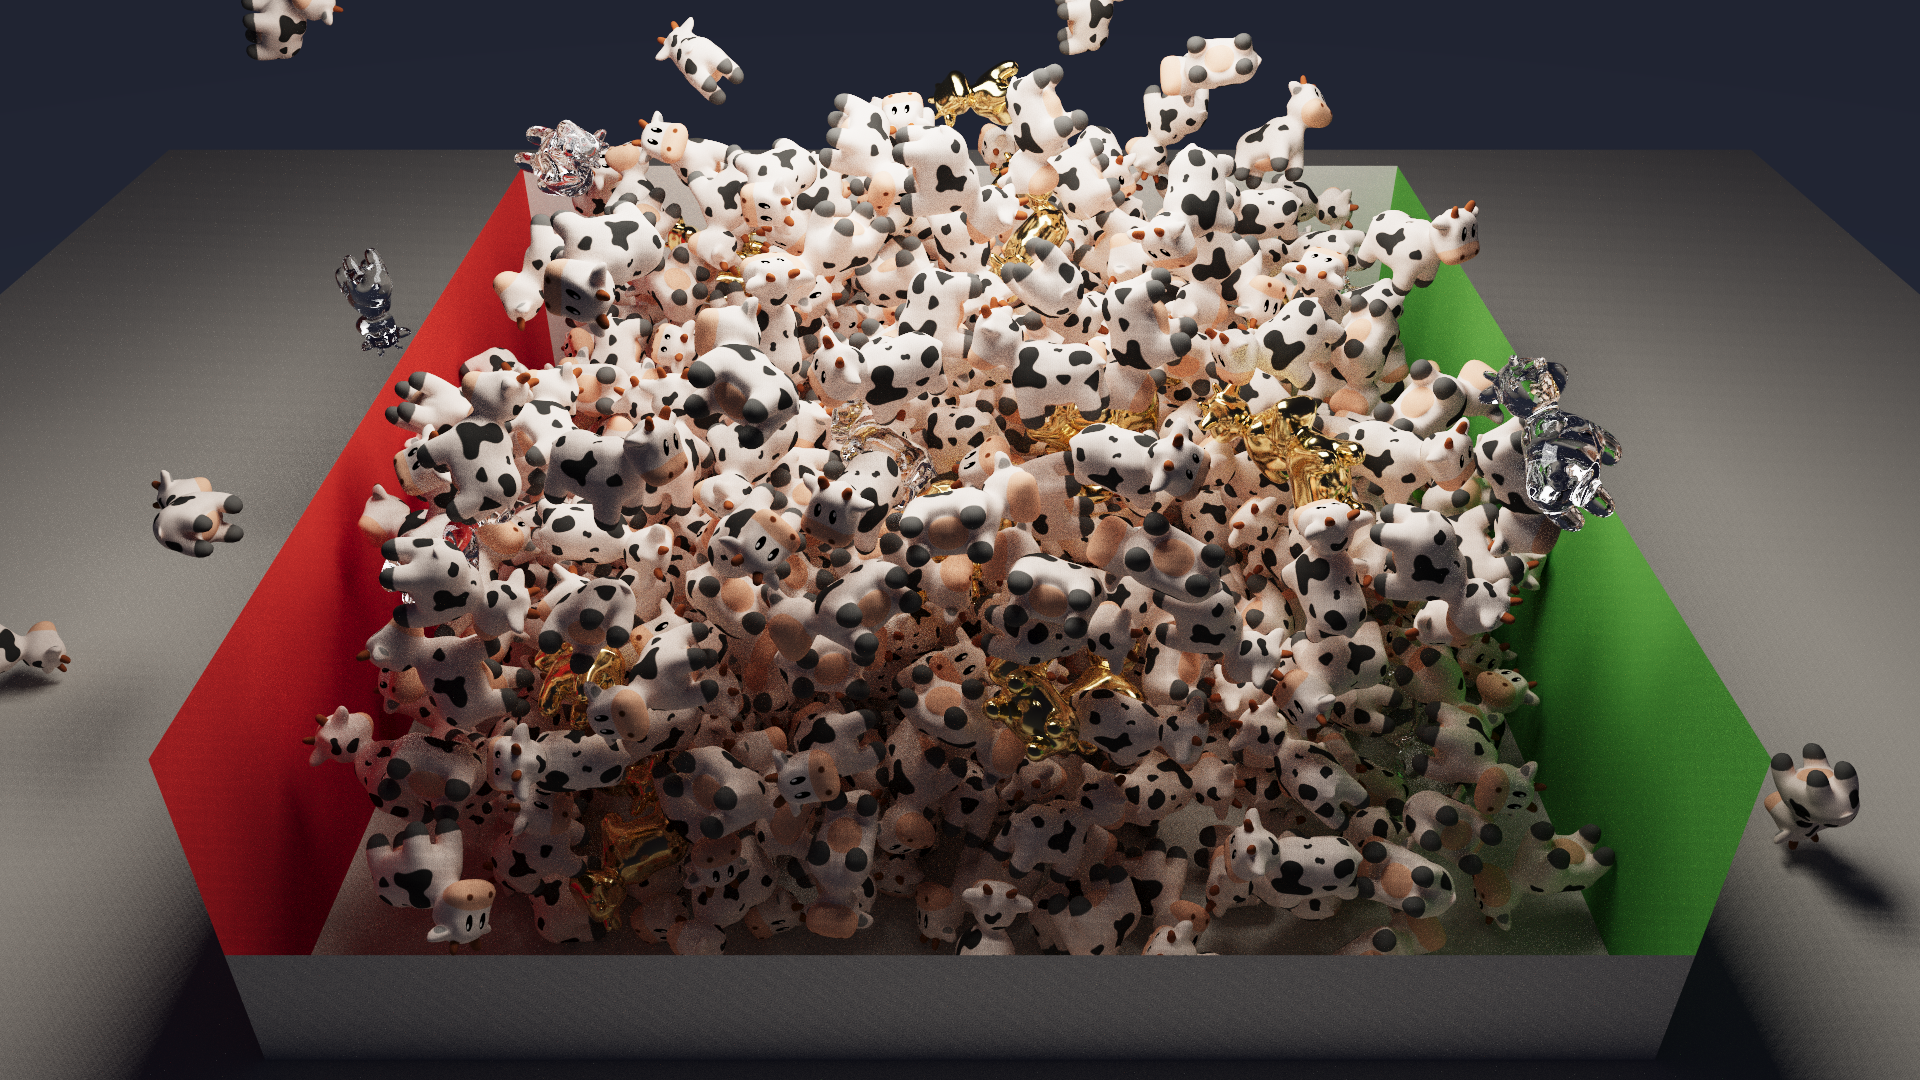
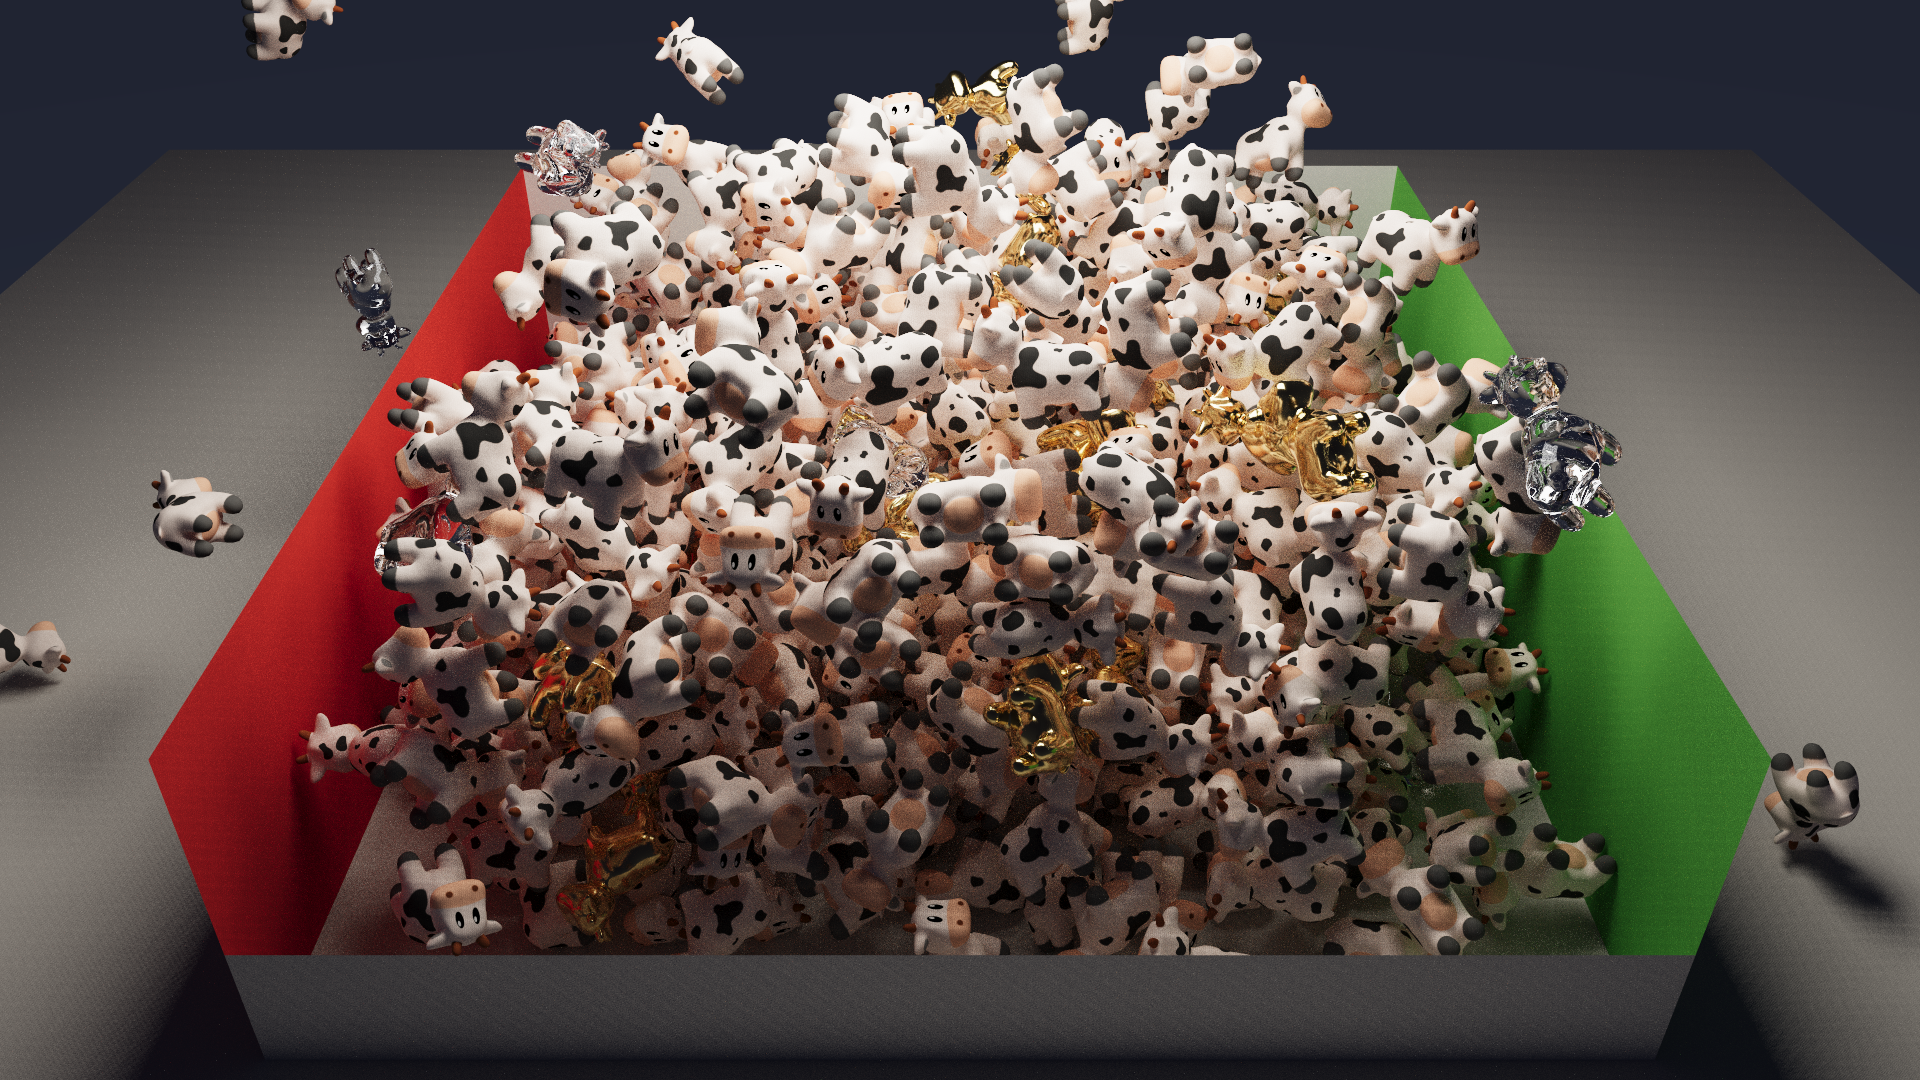
画廊与基准纳入 14-toy-factory（14 场景全量重生成）
- render-gallery.sh：ENTRIES 加 14-toy-factory:384 + 中文描述；
  docs/GALLERY.md 与 docs/gallery/14-toy-factory.png 脚本生成入库。
- run-benchmark.sh：FEATURE_SCENES 加 14；BENCHMARKS.md 全表同口径
  重测（RTX 5090 + 驱动 615.36，2u1g-b650-0516）：14 号 55 物体 /
  7284 三角 / 7 灯，64spp 1080p 渲染 0.123s、4015 Mrays/s。
- README 画廊节加 Toy Factory 条目（首个双瓣混合 BSDF 的展示位）。

口径说明：其余 13 张画廊图在新测试机上逐字节复现（跨物理机渲染
决定性的又一实证），唯 06-spot-cascade 定格图漂移——PhysX 刚体
模拟从未承诺跨机逐位一致（golden 政策因此历来排除 06），本图随
当前测试机口径如实更新；其沉降态伴图逐字节未变。

Changed region(s): [[0.125, 0.0611, 0.8438, 0.8861]]

diff --git a/docs/GALLERY.md b/docs/GALLERY.md
@@ -1,6 +1,6 @@
 # sundog 画廊
 
-由 `scripts/render-gallery.sh` 生成于 2026-07-16。
+由 `scripts/render-gallery.sh` 生成于 2026-07-17。
 正式图入库于 `docs/gallery/`（无损重压缩的 1080p PNG）；渲染原件在 `out/gallery/`（不入库）。
 
 ## 01-marble-run
@@ -99,23 +99,30 @@ Cornell 盒变体：暖色小面积主灯加冷色低强度月光球，四档粗
 
 霜幕屏风：五扇磨砂玻璃屏一字排开，粗糙度自左向右 0 → 0.6 逐扇递增，每扇背后同位各燃一小簇体积火焰——镜面端火苗清晰如无物，磨砂端只剩一团暖色光晕，GGX 微表面透射（VNDF 采样 + Walter BTDF）把“看得见”连续糊成“只看得见光”；最清一扇后立着奶牛，火光勾出暖色轮廓。屏前地面的火光光斑却逐扇一样锐利——阴影线仍按光滑菲涅尔直线透射，这笔近似的账记在报告第 16 章。
 
+## 14-toy-factory
+
+![14-toy-factory](gallery/14-toy-factory.png)
+
+玩具工厂：五只同模具糖果色 Sparky 玩具在质检台一字排开，塑料壳（新材质：漫反射底 + GGX 电介质涂层的双瓣混合）的涂层粗糙度自左向右 0.03 → 0.6 逐只递增——相机正后方的细长灯管在清漆端映出一条锐利亮条，逐只糊成宽晕直至摊平成哑光，除涂层参数外一切恒定。中间那只（出厂默认 0.15）被质检唤醒，纹理发光屏做网格 NEE 灯；其余四只睡眠，熄灭的深色高光泽屏幕同样是塑料。金属关节、玻璃头罩与胶质履带混搭成料；针孔相机成图（光圈盘采样的结构性伪影就此规避）。
+
 ## 渲染统计
 
 | 图像 | 分辨率 | spp | 降噪 | 渲染时间 (s) | Mrays/s | 峰值显存 (MB) |
 |---|---|---|---|---|---|---|
-| 01-marble-run | 1920x1080 | 512 | 否 | 0.48 | 5115 | 690 |
-| 02-cornell-lume | 1920x1080 | 512 | 否 | 1.69 | 3940 | 690 |
-| 03-spot-atrium | 1920x1080 | 256 | 否 | 0.35 | 3784 | 698 |
-| 04-parabolica | 1920x1080 | 512 | 否 | 0.53 | 4714 | 694 |
-| 05-spot-swarm | 1920x1080 | 128 | 否 | 0.23 | 3194 | 708 |
-| 06-spot-cascade | 1920x1080 | 256 | 否 | 0.63 | 3619 | 694 |
-| 06-spot-cascade-settled | 1920x1080 | 256 | 否 | 0.60 | 3691 | 694 |
-| 07-campfire | 1920x1080 | 512 | 否 | 0.55 | 4391 | 694 |
-| 08-lakeside | 1920x1080 | 512 | 否 | 0.29 | 6136 | 694 |
-| 09-ember-shore | 1920x1080 | 512 | 否 | 0.38 | 5047 | 694 |
-| 09-ember-shore-spp16-denoised | 1920x1080 | 16 | 是 | 0.01 | 5078 | 696 |
-| 09-ember-shore-spp16-raw | 1920x1080 | 16 | 否 | 0.01 | 5058 | 694 |
-| 10-suncatcher | 1920x1080 | 512 | 否 | 0.77 | 3443 | 856 |
-| 11-glasswork | 1920x1080 | 512 | 否 | 0.96 | 3158 | 856 |
-| 12-molten-oracle | 1920x1080 | 1024 | 否 | 8.05 | 1607 | 854 |
-| 13-frosted-veil | 1920x1080 | 1024 | 否 | 3.63 | 2237 | 694 |
+| 01-marble-run | 1920x1080 | 512 | 否 | 0.40 | 6127 | 690 |
+| 02-cornell-lume | 1920x1080 | 512 | 否 | 1.45 | 4599 | 690 |
+| 03-spot-atrium | 1920x1080 | 256 | 否 | 0.32 | 4105 | 698 |
+| 04-parabolica | 1920x1080 | 512 | 否 | 0.41 | 6066 | 694 |
+| 05-spot-swarm | 1920x1080 | 128 | 否 | 0.21 | 3480 | 708 |
+| 06-spot-cascade | 1920x1080 | 256 | 否 | 0.56 | 4107 | 694 |
+| 06-spot-cascade-settled | 1920x1080 | 256 | 否 | 0.51 | 4377 | 694 |
+| 07-campfire | 1920x1080 | 512 | 否 | 0.46 | 5205 | 694 |
+| 08-lakeside | 1920x1080 | 512 | 否 | 0.26 | 6990 | 694 |
+| 09-ember-shore | 1920x1080 | 512 | 否 | 0.32 | 6040 | 694 |
+| 09-ember-shore-spp16-denoised | 1920x1080 | 16 | 是 | 0.01 | 5966 | 696 |
+| 09-ember-shore-spp16-raw | 1920x1080 | 16 | 否 | 0.02 | 3645 | 694 |
+| 10-suncatcher | 1920x1080 | 512 | 否 | 0.67 | 3913 | 856 |
+| 11-glasswork | 1920x1080 | 512 | 否 | 0.77 | 3938 | 856 |
+| 12-molten-oracle | 1920x1080 | 1024 | 否 | 6.06 | 2135 | 854 |
+| 13-frosted-veil | 1920x1080 | 1024 | 否 | 3.27 | 2488 | 694 |
+| 14-toy-factory | 1920x1080 | 384 | 否 | 0.74 | 4007 | 694 |

diff --git a/docs/BENCHMARKS.md b/docs/BENCHMARKS.md
@@ -1,24 +1,25 @@
 # sundog 基准
 
-由 `scripts/run-benchmark.sh` 生成于 2026-07-16T11:49:11+00:00。GPU：NVIDIA GeForce RTX 5090。
+由 `scripts/run-benchmark.sh` 生成于 2026-07-17T05:00:31+00:00。GPU：NVIDIA GeForce RTX 5090。
 
 ## A. 特性层 — 画廊场景（1920x1080 / 64 spp / 不降噪）
 
 | 场景 | 物体 | 三角形 | 灯 | 渲染 (s) | Mrays/s | 峰值显存 (MB) |
 |---|---|---|---|---|---|---|
-| 01-marble-run | 21 | 0 | 1 | 0.06 | 5107 | 690 |
-| 02-cornell-lume | 11 | 0 | 2 | 0.212 | 3945 | 690 |
-| 03-spot-atrium | 14 | 13140 | 6 | 0.088 | 3779 | 698 |
-| 04-parabolica | 6 | 5856 | 3 | 0.067 | 4706 | 694 |
-| 05-spot-swarm | 32770 | 5856 | 2 | 0.115 | 3207 | 708 |
-| 06-spot-cascade | 518 | 5856 | 1 | 0.15 | 3693 | 694 |
-| 07-campfire | 22 | 5856 | 3 | 0.069 | 4403 | 694 |
-| 08-lakeside | 12 | 5856 | 2 | 0.037 | 6159 | 694 |
-| 09-ember-shore | 17 | 5856 | 3 | 0.048 | 5047 | 694 |
-| 10-suncatcher | 14 | 5856 | 0 | 0.096 | 3449 | 856 |
-| 11-glasswork | 8 | 5856 | 0 | 0.12 | 3166 | 856 |
-| 12-molten-oracle | 120 | 5856 | 6 | 0.5 | 1618 | 854 |
-| 13-frosted-veil | 19 | 5856 | 11 | 0.224 | 2264 | 694 |
+| 01-marble-run | 21 | 0 | 1 | 0.067 | 4573 | 690 |
+| 02-cornell-lume | 11 | 0 | 2 | 0.177 | 4711 | 690 |
+| 03-spot-atrium | 14 | 13140 | 6 | 0.07 | 4711 | 698 |
+| 04-parabolica | 6 | 5856 | 3 | 0.052 | 6064 | 694 |
+| 05-spot-swarm | 32770 | 5856 | 2 | 0.106 | 3486 | 708 |
+| 06-spot-cascade | 518 | 5856 | 1 | 0.126 | 4388 | 694 |
+| 07-campfire | 22 | 5856 | 3 | 0.058 | 5236 | 694 |
+| 08-lakeside | 12 | 5856 | 2 | 0.032 | 6962 | 694 |
+| 09-ember-shore | 17 | 5856 | 3 | 0.064 | 3780 | 694 |
+| 10-suncatcher | 14 | 5856 | 0 | 0.106 | 3115 | 856 |
+| 11-glasswork | 8 | 5856 | 0 | 0.096 | 3945 | 856 |
+| 12-molten-oracle | 120 | 5856 | 6 | 0.378 | 2142 | 854 |
+| 13-frosted-veil | 19 | 5856 | 11 | 0.2 | 2543 | 694 |
+| 14-toy-factory | 55 | 7284 | 7 | 0.123 | 4015 | 694 |
 
 ## B. 降噪层 — 09-ember-shore（1920x1080，参考 4096 spp）
 